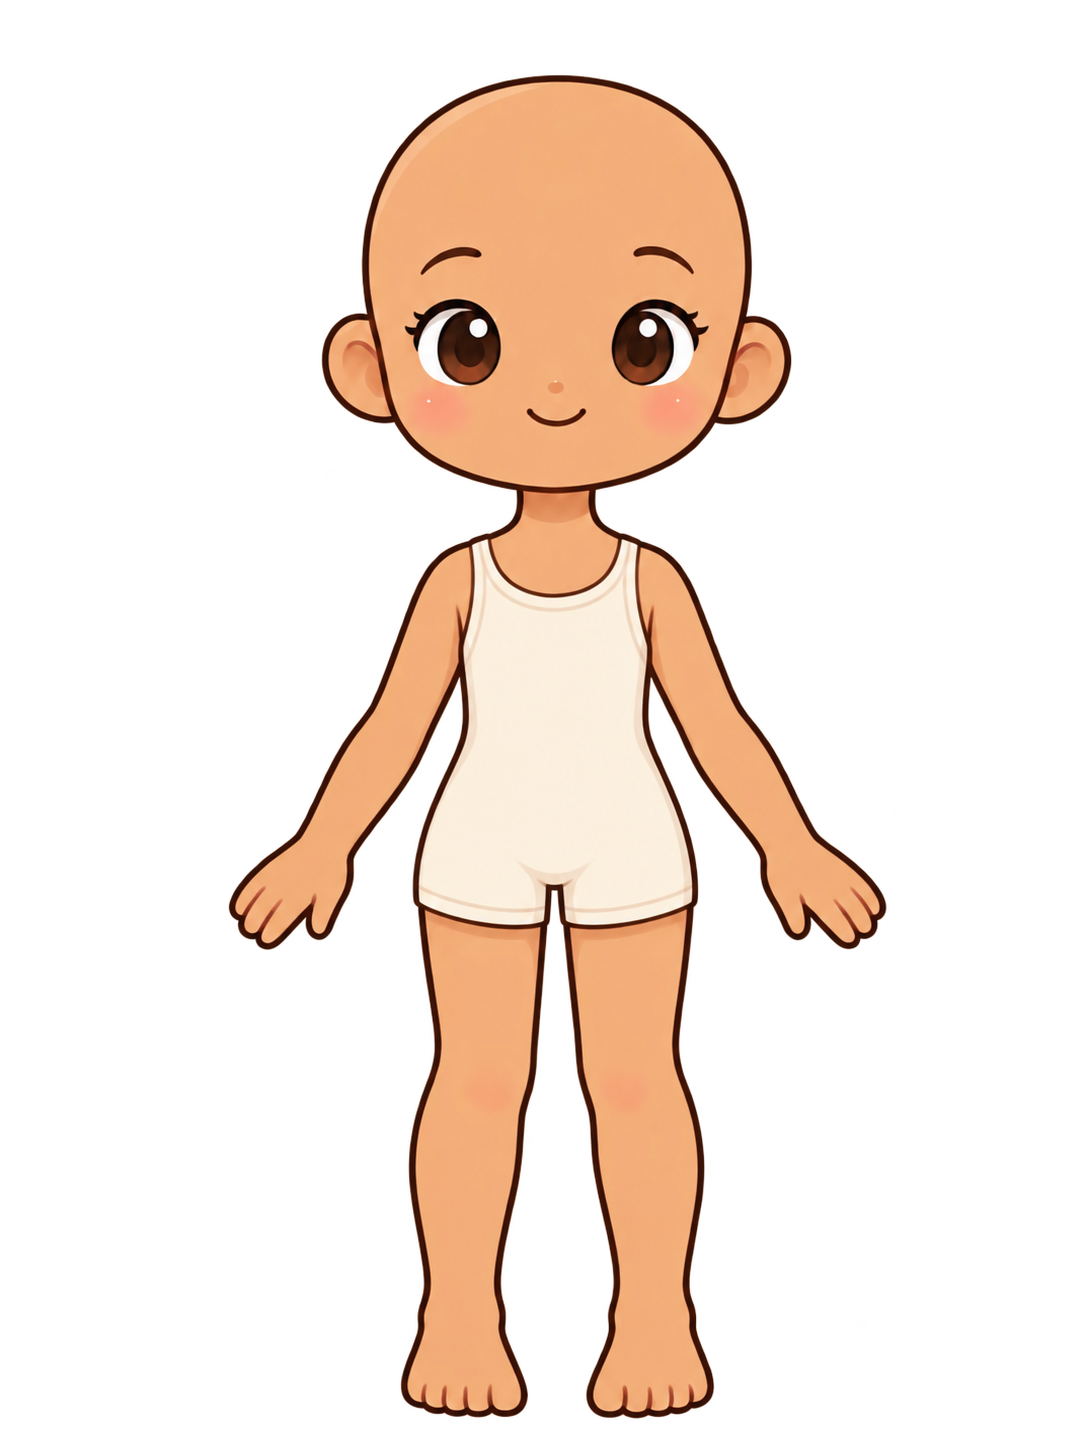
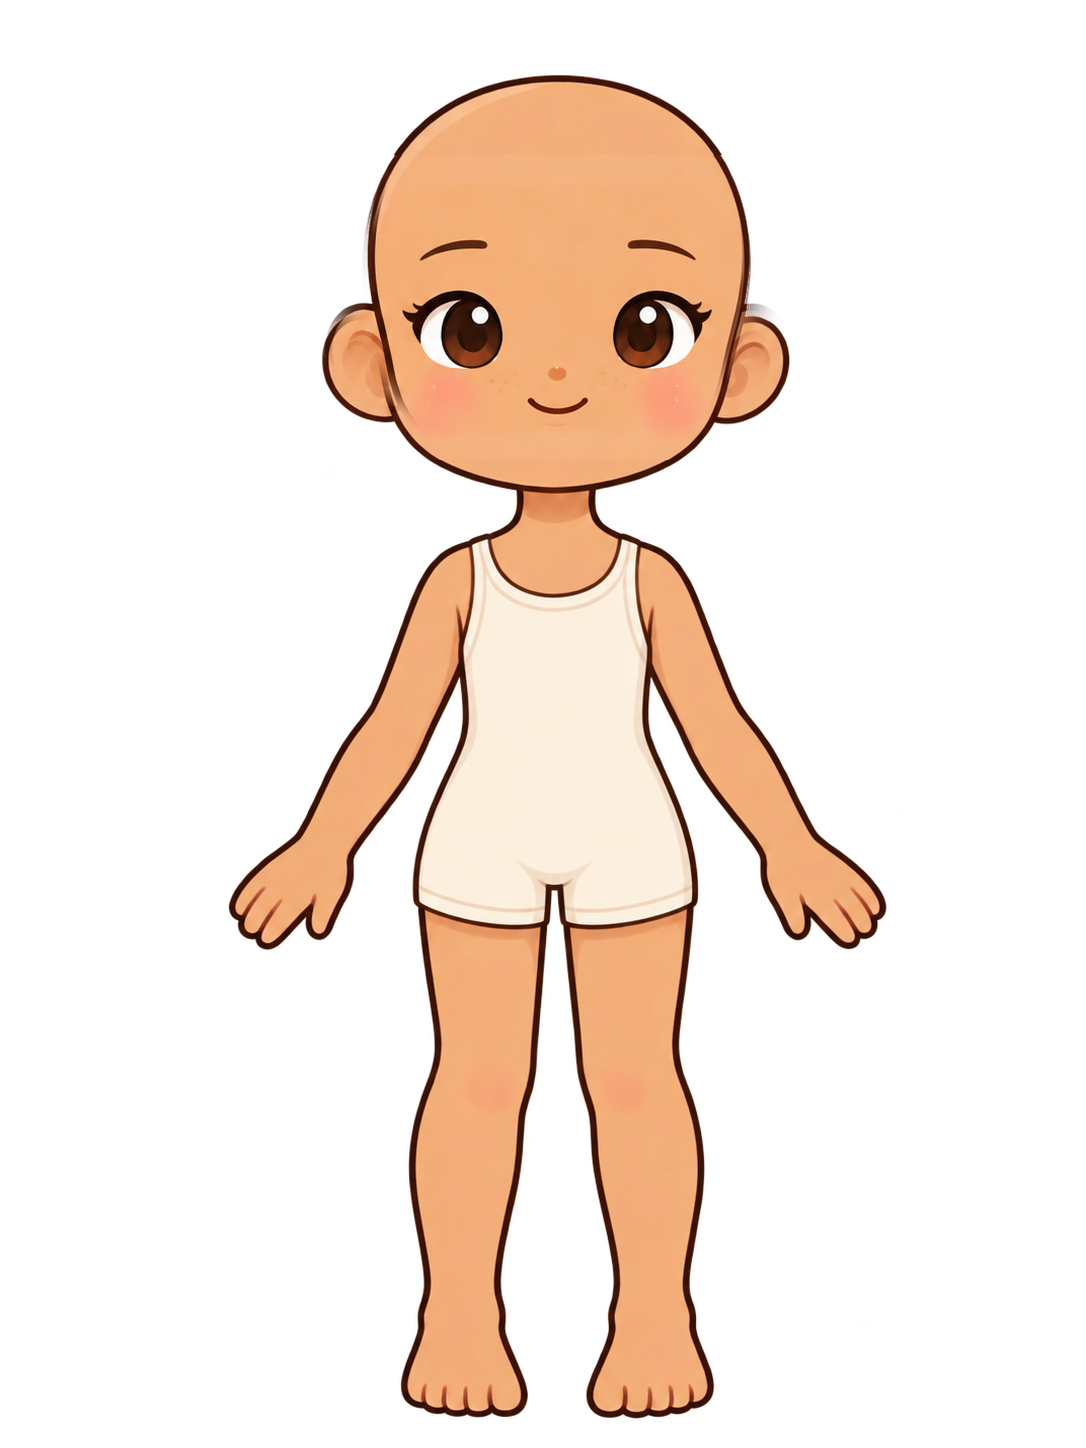
feat: give Haneul a distinct raster face identity

Changed region(s): [[0.547, 0.1243, 0.7293, 0.2797], [0.3039, 0.1243, 0.4862, 0.2797], [0.4862, 0.2486, 0.547, 0.3108]]

diff --git a/game.js b/game.js
@@ -147,31 +147,6 @@
     }
   }
 
-  function identityFaceOverlay(person) {
-    if (person?.id !== 'girl02') return '';
-    // Haneul keeps the shared preschool body rig, but has a visibly different
-    // facial identity from Se-yeon: straighter brows, outer lashes, freckles,
-    // a small nose and a different open-smile shape.
-    const skin = person.skin || '#d99d72';
-    return `<g data-face-identity="girl02-v1" pointer-events="none">
-      <path d="M139 94Q151 89 163 94M197 94Q209 89 221 94"
-        fill="none" stroke="#6b4032" stroke-width="3.2" stroke-linecap="round"/>
-      <path d="M139 114l-6-4M141 119l-7-1M221 114l6-4M219 119l7-1"
-        fill="none" stroke="#5b352d" stroke-width="2.4" stroke-linecap="round"/>
-      <ellipse cx="180" cy="132" rx="9" ry="7" fill="${skin}" opacity=".97"/>
-      <path d="M178 131q2 3 5 0" fill="none" stroke="#b8694f" stroke-width="2.1" stroke-linecap="round"/>
-      <g fill="#b86d4d" opacity=".78">
-        <circle cx="165" cy="134" r="1.35"/><circle cx="171" cy="136" r="1.15"/>
-        <circle cx="189" cy="136" r="1.15"/><circle cx="195" cy="134" r="1.35"/>
-      </g>
-      <ellipse cx="180" cy="143" rx="15" ry="8" fill="${skin}" opacity=".98"/>
-      <path d="M168 141Q180 150 192 141Q190 152 180 154Q170 152 168 141Z"
-        fill="#7f4338" stroke="#6d382f" stroke-width="1.5" stroke-linejoin="round"/>
-      <path d="M172 143Q180 146 188 143" fill="none" stroke="#fff3e8" stroke-width="2" stroke-linecap="round"/>
-      <path d="M175 150Q180 152 185 150" fill="none" stroke="#e88d92" stroke-width="1.8" stroke-linecap="round"/>
-    </g>`;
-  }
-
   function bodySvg(person, includeBaseHair = true, assetOverride = '', outfit = {}) {
     const skin = person.skin, hair = person.hair;
     const hasBodyGarment = Boolean(outfit.top || outfit.dress || outfit.skirt || outfit.pants);
@@ -215,7 +190,6 @@
     };
     if (hair && !characterComposite) svg += `<g data-layer="hairBack"${hairMask}>${svgItem(hair, 'back', person)}</g>`;
     svg += `<g data-layer="body">${bodySvg(person, !hair, characterComposite, safeOutfit)}</g>`;
-    svg += identityFaceOverlay(person);
     for (const item of selections) {
       if (item.category === 'hat') drawHeadOverlay();
       if (item.category === 'hair') {

diff --git a/sw.js b/sw.js
@@ -1,4 +1,4 @@
-const CACHE = 'seyeon-closet-v44';
+const CACHE = 'seyeon-closet-v45';
 const FILES = ['./', './index.html', './game.css', './game.js', './fit-engine.js', './data.js', './outfit-rules.js', './assets/assetRegistry.js', './manifest.webmanifest', './icon.svg', './assets/runtime/characters/girl01.webp', './assets/runtime/characters/dressable/girl01.webp', './assets/runtime/characters/dressable/girl02.webp', './assets/runtime/characters/dressable/bear01.webp', './assets/runtime/characters/dressable/rabbit01.webp', './assets/runtime/characters/girl02.webp', './assets/runtime/characters/bear01.webp', './assets/runtime/characters/rabbit01.webp', './assets/runtime/characters/rabbit01_hair01.webp', './assets/runtime/characters/rabbit01_hair03.webp', './assets/runtime/characters/rabbit01_hair07.webp', './assets/runtime/characters/rabbit01_hair01_dressable.webp', './assets/runtime/characters/rabbit01_hair03_dressable.webp', './assets/runtime/characters/rabbit01_hair07_dressable.webp', './assets/runtime/clothes/shoes_02.webp', './assets/runtime/clothes/top_01_v2.webp', './assets/runtime/clothes/top_02_v1.webp', './assets/runtime/clothes/top_03_v1.webp', './assets/runtime/clothes/top_04_v1.webp', './assets/runtime/clothes/top_05_v1.webp', './assets/runtime/clothes/hair_06_v3.webp', './assets/runtime/clothes/hair_07_v2.webp', './assets/runtime/clothes/hair_08_v1.webp', './assets/runtime/clothes/hat_04_v1.webp', './assets/runtime/clothes/hat_01_v1.webp', './assets/runtime/clothes/hat_02_v1.webp', './assets/runtime/clothes/hat_03_v1.webp', './assets/runtime/clothes/hat_05_v1.webp', './assets/runtime/clothes/hat_06_v1.webp', './assets/runtime/clothes/hat_07_v1.webp', './assets/runtime/clothes/hat_08_v1.webp', './assets/runtime/clothes/hat_09_v1.webp', './assets/runtime/clothes/hat_10_v1.webp'];
 
 self.addEventListener('install', event => {

diff --git a/docs/V10_FACE_IDENTITY_QA.md b/docs/V10_FACE_IDENTITY_QA.md
@@ -1,0 +1,24 @@
+# V10 Haneul face identity QA
+
+## Change
+
+Haneul (`girl02`) now has an image-based facial identity in both the default and dressable character masters. The face art uses a subtly flatter brow line, longer eye shape, a small nose, faint freckles, and a smaller closed smile. The same face crop is pixel-identical in both masters.
+
+The new face draft was generated with the project illustration as its reference. Only the face interior was transferred to the existing 1086×1448 masters. Pixels outside the face edit area are unchanged, preserving the shared body pose, outfit anchors, skin/neck connection, and transparent bounds. Runtime WebP copies were regenerated losslessly. The temporary SVG face overlay was removed so the raster artwork is not drawn twice.
+
+## Visual evidence
+
+- `qa/v10-browser-smoke/v10-girl01-vs-girl02-identity.png`: same hair and outfits, side-by-side.
+- `qa/v10-browser-smoke/v10-requested-outfits-contact-sheet.jpg`: selected V10 outfit regressions reviewed from 390×844 Chromium captures.
+
+The comparison was reviewed at full resolution. Haneul remains distinguishable through eye shape, nose, freckles, and smile with identical hair and clothing; the result is not based on skin tone alone. The body and outfit placement remain aligned.
+
+## Preserved rules
+
+- Rabbit hair remains limited to its supported composites (`hair_01`, `hair_03`, `hair_07`).
+- Hat and head accessory remain mutually exclusive.
+- Existing V10 uniform fit and semantic slots were not changed.
+
+## Validation
+
+Local checks: JavaScript syntax, data, outfit rules, fit engine, character compatibility, asset registry, strict story-mode art, alpha bounds, and PNG/WebP identity. Chromium smoke includes 390×844 and 412×915 layouts, finish/album flows, 80 hair/hat pairs, and the same-hair identity sheet.
